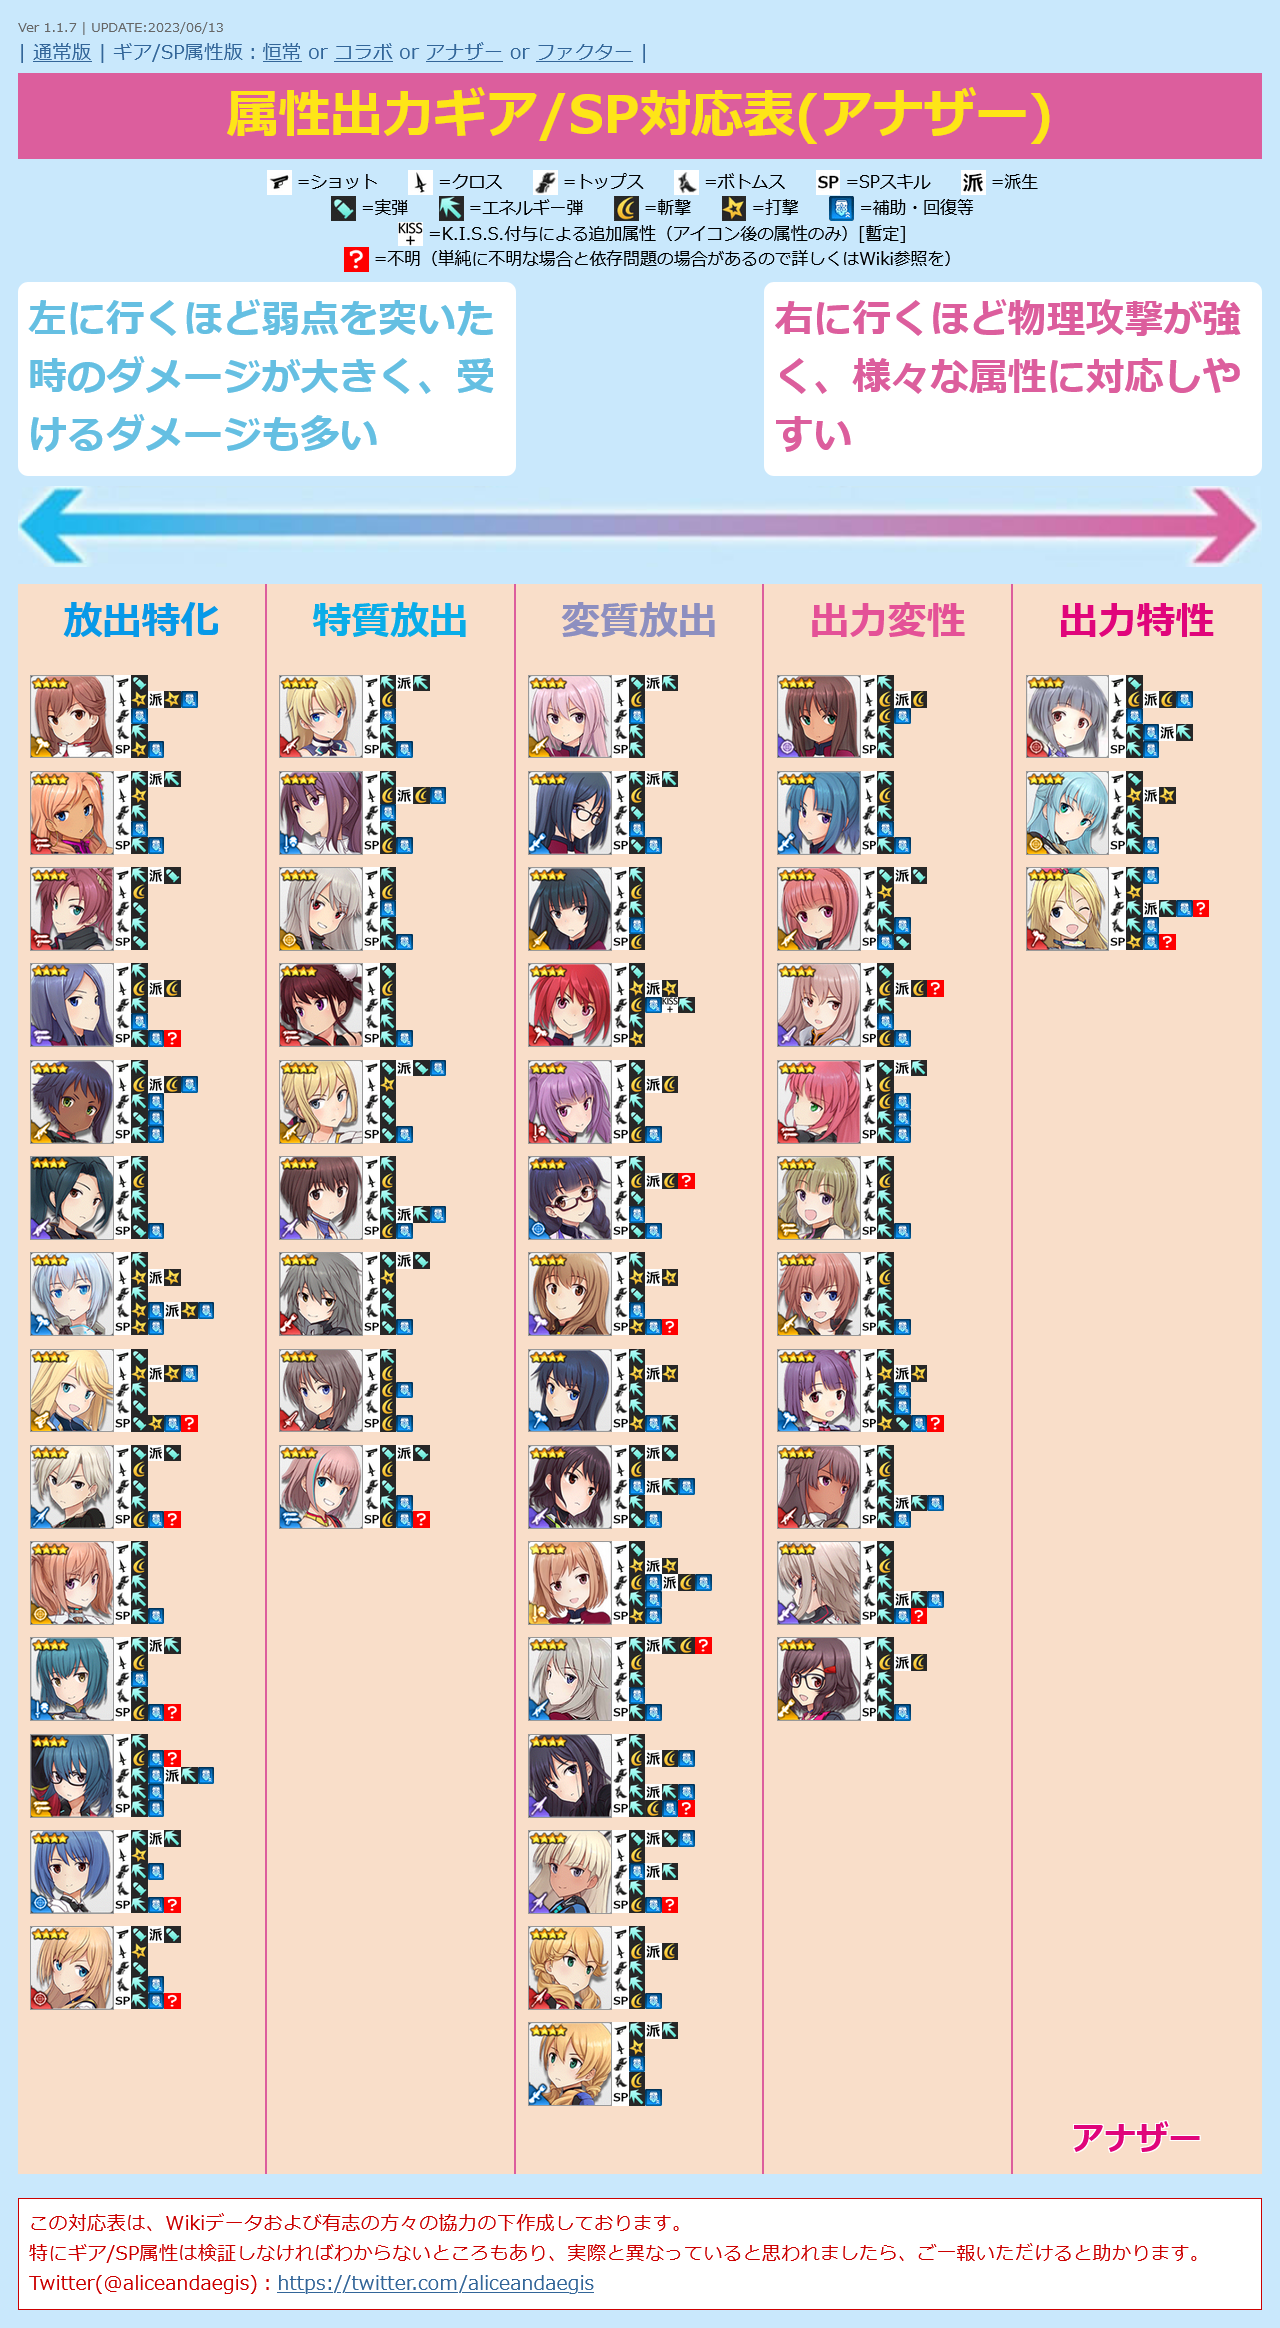
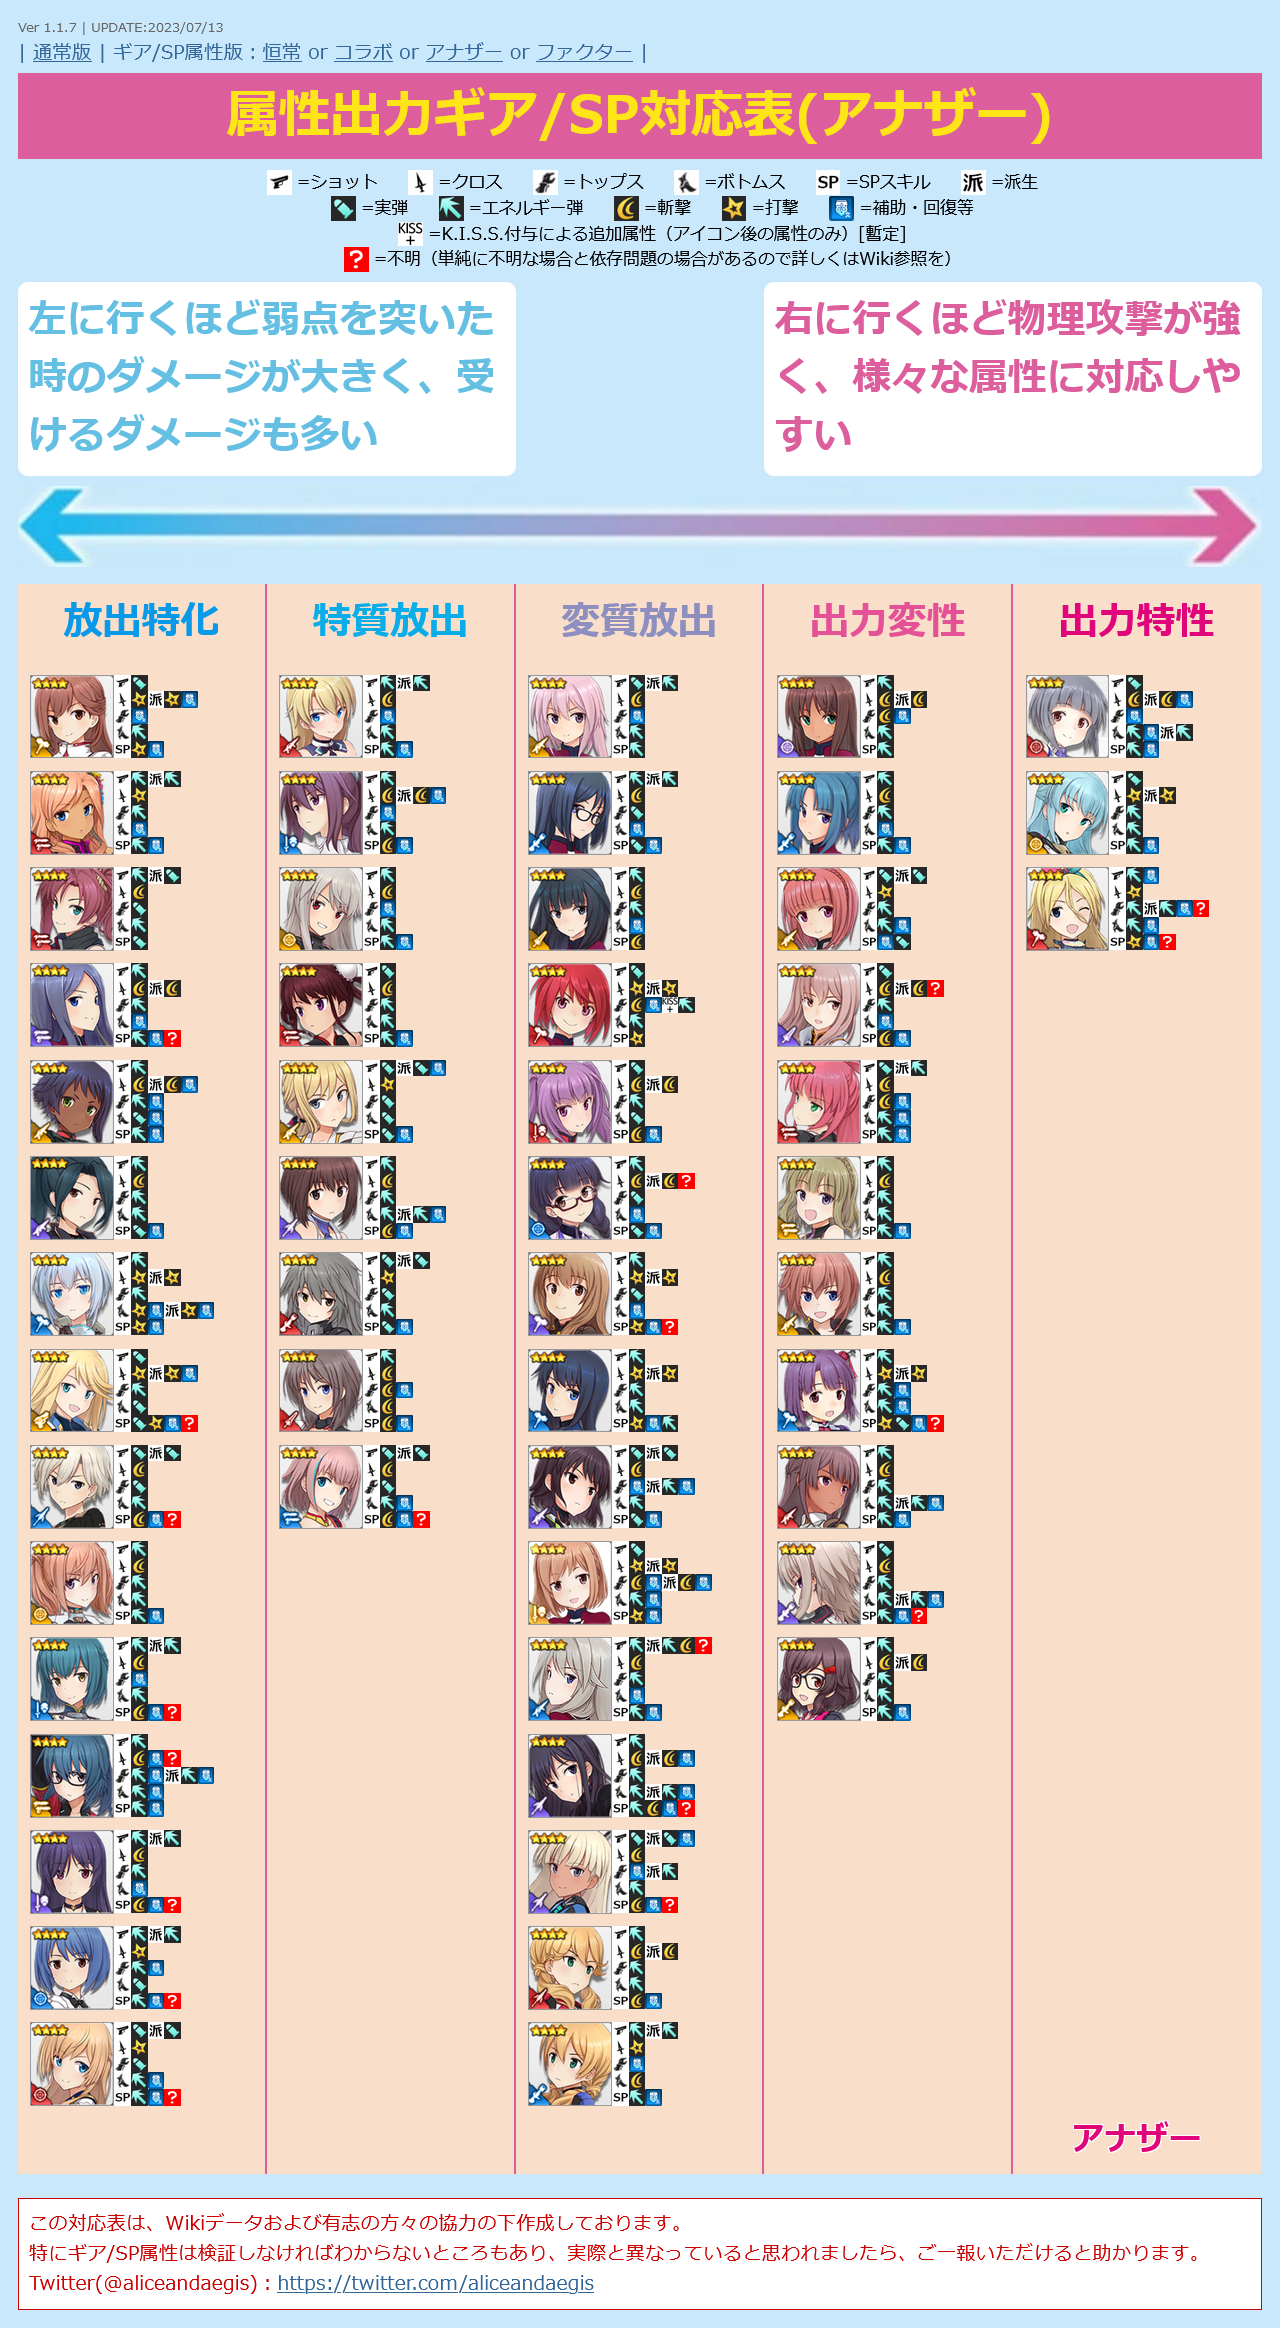
UPDATE charadata
・アナザー 在賀 奈々/星詠を追加

Changed region(s): [[0.0, 0.7732, 0.1562, 0.9278]]

diff --git a/alice.html b/alice.html
@@ -12,7 +12,7 @@
   <script>
 
 /* 更新情報 必要に応じて書き換えてください */
-  var version = "Ver 1.1.7 | UPDATE:2023/06/28";
+  var version = "Ver 1.1.7 | UPDATE:2023/07/13";
 
 
 /*
@@ -1667,7 +1667,7 @@
       "type": "3",
       "src": "normal-nana.png",
       "name": "在賀 奈々",
-      "equip1": "2",
+      "equip1": "2/2",
       "equip2": "3",
       "equip3": "2",
       "equip4": "5",
@@ -1675,6 +1675,20 @@
       "attr": "2",
       "link": "https://wikiwiki.jp/alicegear/%E5%9C%A8%E8%B3%80%E5%A5%88%E3%80%85",
       "category": ""
+    },
+    {
+      "id": "52",
+      "type": "1",
+      "src": "another-nana.png",
+      "name": "在賀 奈々 / 星詠",
+      "equip1": "2/2",
+      "equip2": "3",
+      "equip3": "2",
+      "equip4": "5",
+      "sp": "35?",
+      "attr": "2",
+      "link": "https://wikiwiki.jp/alicegear/%E5%9C%A8%E8%B3%80%E5%A5%88%E3%80%85%E6%98%9F%E8%A9%A0",
+      "category": "10"
     },
     {
       "id": "53",
